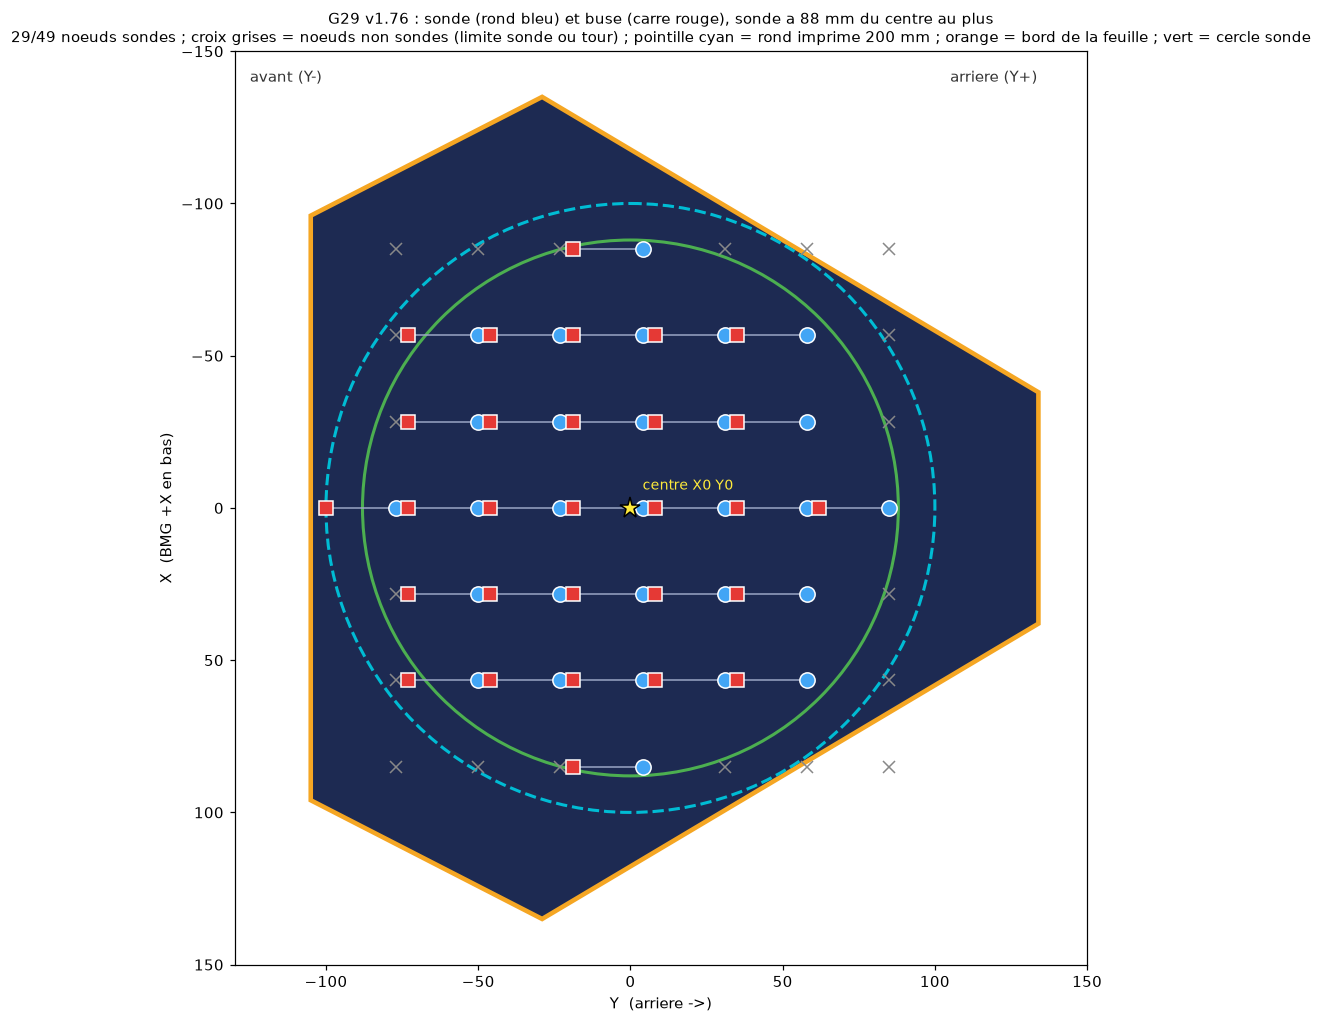
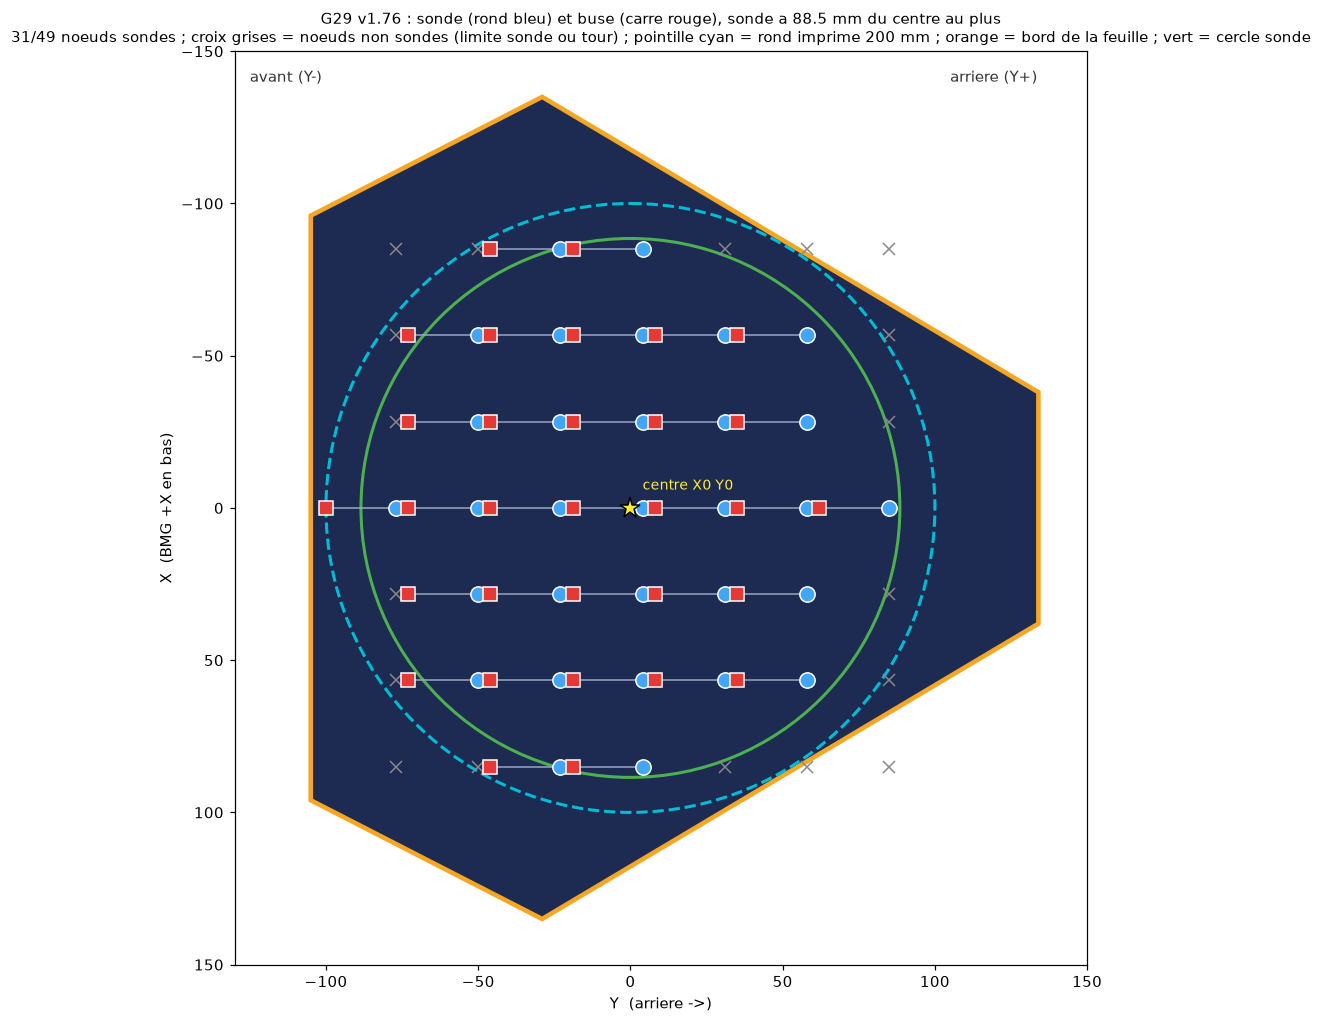
v1.76: sonde 88,5 mm (31 noeuds), tours a 98 mm, G33 R13.5
Claude-Session: https://claude.ai/code/session_012EdznbhRS4ubS7iXg3NmBm

diff --git a/marlin-config/Configuration.h b/marlin-config/Configuration.h
@@ -1533,10 +1533,10 @@
 // ---- Plaque Neva (mesures sur la photo avec la regle, v1.73) -------------------------------------------------
 #define NEVA_PLATE_RADIUS    100.0 // Rond imprime : 200 mm de diametre, centre = X0 Y0 (centre valide par l'utilisateur)
 #define NEVA_PLATE_FLAT_MIN  103.0 // Distance du centre au bord plat le plus proche de la plaque (103 a 108 mm selon le cote)
-#define NEVA_PROBE_MAX_RADIUS 88.0 // Rayon MAX de la SONDE (mm), choisi par l'utilisateur (90 mm moins 2 mm). Le noeud X-85 Y31 (90,5 mm) avait echoue.
+#define NEVA_PROBE_MAX_RADIUS 88.5 // Rayon MAX de la SONDE (mm), choisi par l'utilisateur (cercle de 88 mm + noeud X+-85 Y-23 a 88,06 mm). Les noeuds a 89,6 mm (X+-28 Y85) et 90,5 mm (X-85 Y31) restent exclus.
                                    // Pour elargir le palpage : monter cette valeur par petits pas.
-#define PROBING_MARGIN (DELTA_PRINTABLE_RADIUS - NEVA_PROBE_MAX_RADIUS) // = 12 mm : la sonde ne sort pas de NEVA_PROBE_MAX_RADIUS
-// G33 : sans R la buse palpe sur un cercle de (100 - 12 - 23) = 65 mm (sonde a 88 mm) ; « Calibration auto » = G33 R13 : cercle de 52 mm, sonde a 75 mm au plus, comme la v1.74 qui calibrait bien.
+#define PROBING_MARGIN (DELTA_PRINTABLE_RADIUS - NEVA_PROBE_MAX_RADIUS) // = 11,5 mm : la sonde ne sort pas de NEVA_PROBE_MAX_RADIUS
+// G33 : sans R la buse palpe sur un cercle de (100 - 11,5 - 23) = 65,5 mm (sonde a 88,5 mm) ; « Calibration auto » = G33 R13.5 : cercle de 52 mm, sonde a 75 mm au plus, comme la v1.74 qui calibrait bien.
 #define NEVA_MESH_SHIFT   // Neva : applique le maillage avec le decalage de la sonde (23 mm) ; commenter la ligne pour revenir a l'ancien comportement
 #define NEVA_MESH_MARGIN 15 // Neva : le maillage G29 couvre un disque de 100 - 15 = 85 mm (avant 77). Sondes ecartees automatiquement si la buse ne peut pas les atteindre (avant).
 

diff --git a/marlin-patches/Marlin/src/module/probe.h b/marlin-patches/Marlin/src/module/probe.h
@@ -99,11 +99,11 @@ public:
       #if HAS_PROBE_XY_OFFSET
         // Return true if the both nozzle and the probe can reach the given point.
         // Note: This won't work on SCARA since the probe offset rotates with the arm.
-        // Neva v1.76 : la tete touche la tour X (210 deg) ou la tour Y (330 deg) quand la buse est a plus de 94 mm du centre
-        // dans un secteur de +-30 deg autour d'une tour (mesure : buse X-86,07 Y-49,31 touche la tour X). Ces points sont refuses.
+        // Neva v1.76 : la tete touche la tour X (210 deg) ou la tour Y (330 deg) quand la buse est a plus de 98 mm du centre
+        // dans un secteur de +-30 deg autour d'une tour (mesure : buse X-86,07 Y-49,31 = 99,2 mm touche la tour X ; X-87 Y-44 = 97,5 mm passe). Ces points sont refuses.
         static bool neva_tower_clear(const_float_t nx, const_float_t ny) {
           const float r2 = sq(nx) + sq(ny);
-          if (r2 <= sq(94.0f)) return true;
+          if (r2 <= sq(98.0f)) return true;
           const float r = SQRT(r2);
           const float cX = (nx * -0.866025f + ny * -0.5f) / r,   // cosinus de l'angle avec la tour X (210 deg)
                       cY = (nx *  0.866025f + ny * -0.5f) / r;   // cosinus de l'angle avec la tour Y (330 deg)

diff --git a/docs/schema_sonde_buse.py b/docs/schema_sonde_buse.py
@@ -18,9 +18,9 @@ P = lambda X, Y: (Y, X)
 ax.add_patch(Polygon([P(*p) for p in POLY], closed=True, fc="#1d2a52", ec="#f5a623", lw=3))
 ax.add_patch(Circle((0, 0), 100, fill=False, ec="#00bcd4", lw=2, ls="--"))
 ax.add_patch(Circle((0, 0), 100 - 0, fill=False, ec="none"))
-def tower_clear(nx, ny):   # v1.76 : buse a plus de 94 mm du centre a +-30 deg d'une tour (210 / 330 deg) = la tete touche
+def tower_clear(nx, ny):   # v1.76 : buse a plus de 98 mm du centre a +-30 deg d'une tour (210 / 330 deg) = la tete touche
     r = math.hypot(nx, ny)
-    if r <= 94: return True
+    if r <= 98: return True
     return (nx * -0.866025 + ny * -0.5) / r < 0.866025 and (nx * 0.866025 + ny * -0.5) / r < 0.866025
 nb = 0
 for J in range(7):

diff --git a/marlin-config/Configuration_adv.h b/marlin-config/Configuration_adv.h
@@ -4254,7 +4254,7 @@
     "M117 Calibration...\n" \
     "G90\n" \
     "G28\n" \
-    "G33 R13\n" \
+    "G33 R13.5\n" \
     "M500\n" \
     "M117 Calibration finie"
 

diff --git a/README.md b/README.md
@@ -132,7 +132,7 @@ L'ordre du menu est écrit dans le code de Marlin, pas dans la config. Le dossie
 
 **Chargement automatique au repos** : machine au repos, quand le filament arrive devant le capteur, la buse chauffe à `NEVA_AUTOLOAD_TEMP` (210 °C) puis `M701` charge le filament. Patch dans `marlinui.cpp` ; commente `NEVA_AUTOLOAD_TEMP` dans `Configuration_adv.h` pour désactiver.
 
-**Version de ton firmware** : `NEVA_FW_VERSION` (dans `Configuration.h`, incrémenté à chaque mise à jour poussée sur la branche) s'affiche sur la ligne du bas de l'écran de contrôle au démarrage (« Fake Prusa fw v1.59 », via `STARTUP_COMMANDS` / `M117`). Il est aussi dans l'étiquette `(NEVA-vX.Y)` visible dans `M115` et au démarrage. Depuis la v1.65 : `SET_PROGRESS_MANUALLY` (la commande `M73` de PrusaSlicer fixe le pourcentage et le temps restant affichés), `EMERGENCY_PARSER` (`M112`, `M108`, `M410` immédiats, même file pleine), `STATUS_MESSAGE_SCROLLING`, `SOUND_MENU_ITEM` (entrée « Sons » du menu pour couper le bip), `ENABLE_LEVELING_FADE_HEIGHT` (correction du maillage estompée jusqu'à 10 mm de hauteur), `CANCEL_OBJECTS` (`M486`, menu « Annuler objet » pendant l'impression ; dans PrusaSlicer activer « Étiqueter les objets » / *Label objects*) et `SERVICE_INTERVAL_1` (rappel « Courroies » après 100 h d'impression). `POWER_LOSS_RECOVERY` volontairement laissé désactivé. Depuis la v1.64, `SCROLL_LONG_FILENAMES` : dans le menu SD, le nom du fichier sélectionné défile quand il est trop long pour l'écran (`SDSORT_CACHE_VFATS 5` : noms jusqu'à 65 caractères gardés en RAM) ; les écrans de confirmation « Imprimer / Réimprimer … ? » affichent le nom sur plusieurs lignes (jusqu'à 47 caractères). Depuis la v1.63, `MULTIPLE_PROBING 2` (une approche rapide + une seule mesure lente par point, au lieu de deux mesures moyennées : G29 et G33 sont plus courts) et `Z_AFTER_PROBING 30` (la tête remonte à 30 mm à la fin de `G29` au lieu de rester à 5 mm). Depuis la v1.76 : rayon max de la sonde remonté à 88 mm (`NEVA_PROBE_MAX_RADIUS 88`, `PROBING_MARGIN` 12 mm) : 29 nœuds sondés sur 49 (X ±85 à Y +4, X 0 à Y +85 en plus ; les nœuds à 89,6 mm et plus restent exclus). `Probe::can_reach` refuse les points où la buse dépasse 94 mm du centre dans un secteur de ±30° autour d'une tour (X à 210°, Y à 330°) : la tête touche la tour à X −86,07 Y −49,31 (constaté), donc les nœuds X ±85 Y −23 ne sont pas sondés. « Calibration auto » = `G33 R13` : même cercle de 52 mm qu'en v1.74 et v1.75. Depuis la v1.75 : `G29` repasse (la v1.74 répondait « ? (L,R,F,B) out of bounds. ») : `Probe::good_bounds` ne vérifie plus que la portée de la buse sur les bords du maillage (±85) ; les nœuds où la sonde dépasserait 82 mm sont toujours écartés un par un pendant `G29` et extrapolés. Rayon max de la sonde remonté à 82 mm (`NEVA_PROBE_MAX_RADIUS 82`, `PROBING_MARGIN` 18 mm) : 25 nœuds sondés sur 49. « Calibration auto » = `G33 R7` (cercle de la buse à 52 mm, sonde à 75 mm au plus, comme la v1.74). Depuis la v1.74 : rayon max de la sonde réduit de 85,5 à 75 mm (`NEVA_PROBE_MAX_RADIUS 75`, `PROBING_MARGIN` 25 mm) : la sonde sortait encore de la plaque à 85,5 mm ; il reste 21 nœuds sondés sur 49, les autres sont extrapolés. « Calibration auto » = `G33` simple (cercle de la buse à 52 mm, sonde à 75 mm au plus). Depuis la v1.73 : bloc « Plaque Neva » dans `Configuration.h` avec les mesures prises sur la photo (rond imprimé de 200 mm centré sur X0 Y0, bords plats à 103 à 108 mm du centre) ; `NEVA_PROBE_MAX_RADIUS 85.5` règle le rayon maximal de la sonde (`PROBING_MARGIN` en découle) : pour élargir le palpage, il suffit de monter cette seule valeur. Depuis la v1.72 : « Calibration auto » fait `G33 R20` : la buse palpe sur un cercle de 42,5 mm et la sonde, 23 mm derrière, reste à 65,5 mm du centre au plus (sans R, 85,5 mm : la sonde sortait de la plaque pendant `G33`). Depuis la v1.71 : `PROBING_MARGIN 14.5` : la sonde ne va pas à plus de 85,5 mm du centre. Elle échoue (« Probing Failed ») vers 89 à 90 mm (échecs constatés à 89,2 et 89,6 mm) alors que tous les points à 85 mm ou moins réussissent. Le cercle de palpage de `G33` passe à 62,5 mm. La règle des deux nœuds de la v1.70 est retirée ; la zone d'impression reste le disque de 190 mm. Depuis la v1.67 : `NOZZLE_TO_PROBE_OFFSET` Z par défaut à −1,233 (−1,195 lors de la validation des `M421`, puis −1,233 réglé au babystep par l'utilisateur ; la valeur enregistrée dans l'EEPROM l'emporte sur ce défaut) (valeur réglée sur la machine). Zone d'impression : le coin côté BMG (X > 62, Y > −12) est exclu dans PrusaSlicer (`docs/forme_plateau.svg`), la buse y est 0,3 à 0,6 mm trop basse sans que la sonde le voie. La v1.62 limitait la buse à 95 mm du centre en palpage : c'était une erreur (le point avant du maillage demande 100 mm, `G29` s'arrêtait en « out of bounds » et le print partait sans maillage). Retirée en v1.66. Depuis la v1.61, le message d'accueil de l'écran de contrôle (`WELCOME_MSG`, `language_fr.h`) est lui-même « Fake Prusa fw vX.Y » : la version reste visible en permanence, même quand le message `M117` du démarrage a expiré. Depuis la v1.60, elle est aussi affichée sous le logo de l'écran de démarrage : `marlin-patches/make_bootscreen.py` lit `NEVA_FW_VERSION` dans `Configuration.h` et régénère `_Bootscreen.h` — relancer `python3 marlin-patches/make_bootscreen.py` à chaque changement de version.
+**Version de ton firmware** : `NEVA_FW_VERSION` (dans `Configuration.h`, incrémenté à chaque mise à jour poussée sur la branche) s'affiche sur la ligne du bas de l'écran de contrôle au démarrage (« Fake Prusa fw v1.59 », via `STARTUP_COMMANDS` / `M117`). Il est aussi dans l'étiquette `(NEVA-vX.Y)` visible dans `M115` et au démarrage. Depuis la v1.65 : `SET_PROGRESS_MANUALLY` (la commande `M73` de PrusaSlicer fixe le pourcentage et le temps restant affichés), `EMERGENCY_PARSER` (`M112`, `M108`, `M410` immédiats, même file pleine), `STATUS_MESSAGE_SCROLLING`, `SOUND_MENU_ITEM` (entrée « Sons » du menu pour couper le bip), `ENABLE_LEVELING_FADE_HEIGHT` (correction du maillage estompée jusqu'à 10 mm de hauteur), `CANCEL_OBJECTS` (`M486`, menu « Annuler objet » pendant l'impression ; dans PrusaSlicer activer « Étiqueter les objets » / *Label objects*) et `SERVICE_INTERVAL_1` (rappel « Courroies » après 100 h d'impression). `POWER_LOSS_RECOVERY` volontairement laissé désactivé. Depuis la v1.64, `SCROLL_LONG_FILENAMES` : dans le menu SD, le nom du fichier sélectionné défile quand il est trop long pour l'écran (`SDSORT_CACHE_VFATS 5` : noms jusqu'à 65 caractères gardés en RAM) ; les écrans de confirmation « Imprimer / Réimprimer … ? » affichent le nom sur plusieurs lignes (jusqu'à 47 caractères). Depuis la v1.63, `MULTIPLE_PROBING 2` (une approche rapide + une seule mesure lente par point, au lieu de deux mesures moyennées : G29 et G33 sont plus courts) et `Z_AFTER_PROBING 30` (la tête remonte à 30 mm à la fin de `G29` au lieu de rester à 5 mm). Depuis la v1.76 : rayon max de la sonde remonté à 88,5 mm (`NEVA_PROBE_MAX_RADIUS 88.5`, `PROBING_MARGIN` 11,5 mm) : 31 nœuds sondés sur 49 (X ±85 à Y −23 et Y +4, X 0 à Y +85 en plus ; les nœuds à 89,6 mm et plus restent exclus). `Probe::can_reach` refuse les points où la buse dépasse 98 mm du centre dans un secteur de ±30° autour d'une tour (X à 210°, Y à 330°) : la tête touche la tour à X −86,07 Y −49,31 (99,2 mm), alors que X −87 Y −44 (97,5 mm) passe. « Calibration auto » = `G33 R13.5` : même cercle de 52 mm qu'en v1.74 et v1.75. Depuis la v1.75 : `G29` repasse (la v1.74 répondait « ? (L,R,F,B) out of bounds. ») : `Probe::good_bounds` ne vérifie plus que la portée de la buse sur les bords du maillage (±85) ; les nœuds où la sonde dépasserait 82 mm sont toujours écartés un par un pendant `G29` et extrapolés. Rayon max de la sonde remonté à 82 mm (`NEVA_PROBE_MAX_RADIUS 82`, `PROBING_MARGIN` 18 mm) : 25 nœuds sondés sur 49. « Calibration auto » = `G33 R7` (cercle de la buse à 52 mm, sonde à 75 mm au plus, comme la v1.74). Depuis la v1.74 : rayon max de la sonde réduit de 85,5 à 75 mm (`NEVA_PROBE_MAX_RADIUS 75`, `PROBING_MARGIN` 25 mm) : la sonde sortait encore de la plaque à 85,5 mm ; il reste 21 nœuds sondés sur 49, les autres sont extrapolés. « Calibration auto » = `G33` simple (cercle de la buse à 52 mm, sonde à 75 mm au plus). Depuis la v1.73 : bloc « Plaque Neva » dans `Configuration.h` avec les mesures prises sur la photo (rond imprimé de 200 mm centré sur X0 Y0, bords plats à 103 à 108 mm du centre) ; `NEVA_PROBE_MAX_RADIUS 85.5` règle le rayon maximal de la sonde (`PROBING_MARGIN` en découle) : pour élargir le palpage, il suffit de monter cette seule valeur. Depuis la v1.72 : « Calibration auto » fait `G33 R20` : la buse palpe sur un cercle de 42,5 mm et la sonde, 23 mm derrière, reste à 65,5 mm du centre au plus (sans R, 85,5 mm : la sonde sortait de la plaque pendant `G33`). Depuis la v1.71 : `PROBING_MARGIN 14.5` : la sonde ne va pas à plus de 85,5 mm du centre. Elle échoue (« Probing Failed ») vers 89 à 90 mm (échecs constatés à 89,2 et 89,6 mm) alors que tous les points à 85 mm ou moins réussissent. Le cercle de palpage de `G33` passe à 62,5 mm. La règle des deux nœuds de la v1.70 est retirée ; la zone d'impression reste le disque de 190 mm. Depuis la v1.67 : `NOZZLE_TO_PROBE_OFFSET` Z par défaut à −1,233 (−1,195 lors de la validation des `M421`, puis −1,233 réglé au babystep par l'utilisateur ; la valeur enregistrée dans l'EEPROM l'emporte sur ce défaut) (valeur réglée sur la machine). Zone d'impression : le coin côté BMG (X > 62, Y > −12) est exclu dans PrusaSlicer (`docs/forme_plateau.svg`), la buse y est 0,3 à 0,6 mm trop basse sans que la sonde le voie. La v1.62 limitait la buse à 95 mm du centre en palpage : c'était une erreur (le point avant du maillage demande 100 mm, `G29` s'arrêtait en « out of bounds » et le print partait sans maillage). Retirée en v1.66. Depuis la v1.61, le message d'accueil de l'écran de contrôle (`WELCOME_MSG`, `language_fr.h`) est lui-même « Fake Prusa fw vX.Y » : la version reste visible en permanence, même quand le message `M117` du démarrage a expiré. Depuis la v1.60, elle est aussi affichée sous le logo de l'écran de démarrage : `marlin-patches/make_bootscreen.py` lit `NEVA_FW_VERSION` dans `Configuration.h` et régénère `_Bootscreen.h` — relancer `python3 marlin-patches/make_bootscreen.py` à chaque changement de version.
 
 Le logo de démarrage (`SHOW_CUSTOM_BOOTSCREEN`) se refait avec `python3 marlin-patches/make_bootscreen.py` (logo par défaut « PRUSA PRO HT-ish », `--texte` pour le texte seul, `--neva` pour « DAGOMA NEVA », aperçu dans `docs/bootscreen_apercu.png`) ou `python3 marlin-patches/make_bootscreen.py mon_logo.png` pour ta propre image (convertie en noir et blanc, 128×64).
 

diff --git a/docs/SUIVI.md b/docs/SUIVI.md
@@ -7,7 +7,7 @@ Dagoma Neva (delta), carte BTT SKR 1.4 (LPC1768), 4 × TMC2209, écran BTT Mini 
 
 ## Firmware stable : v1.76
 Zip : `Marlin-Neva-v1.76-complet.zip`. « Calibration auto » (`G28`, `G33`, `M500`) et `G29` fonctionnent avec la v1.76 (confirmé par l'utilisateur, écart-type G33 0,045).
-- Palpage : sonde limitée à 88 mm du centre (`NEVA_PROBE_MAX_RADIUS 88`, `PROBING_MARGIN` 12 ; Calibration auto = `G33 R13`), buse écartée des tours (r > 94 mm à ±30° de 210° et 330°) ; pour affiner sans nouvelle version : `G33 R<mm>`, `G29 L R F B`.
+- Palpage : sonde limitée à 88,5 mm du centre (`NEVA_PROBE_MAX_RADIUS 88.5`, `PROBING_MARGIN` 11,5 ; Calibration auto = `G33 R13.5`), buse écartée des tours (r > 98 mm à ±30° de 210° et 330°) ; pour affiner sans nouvelle version : `G33 R<mm>`, `G29 L R F B`.
 - Version affichée sous le logo et au démarrage (`NEVA_FW_VERSION`) ; relancer `make_bootscreen.py` à chaque changement. Config : `marlin-config/`, correctifs : `marlin-patches/` (voir `README.md`). Points clés :
 - `M851 Z` = **−1,233** (réglé au babystep par l'utilisateur, enregistré dans l'EEPROM ; −1,195 lors de la validation des `M421`).
 - Calibration `G33` : écart-type environ 0,03. Hauteur 312,06, rayon 91,34 (valeurs en EEPROM, ne pas faire `M502`).
